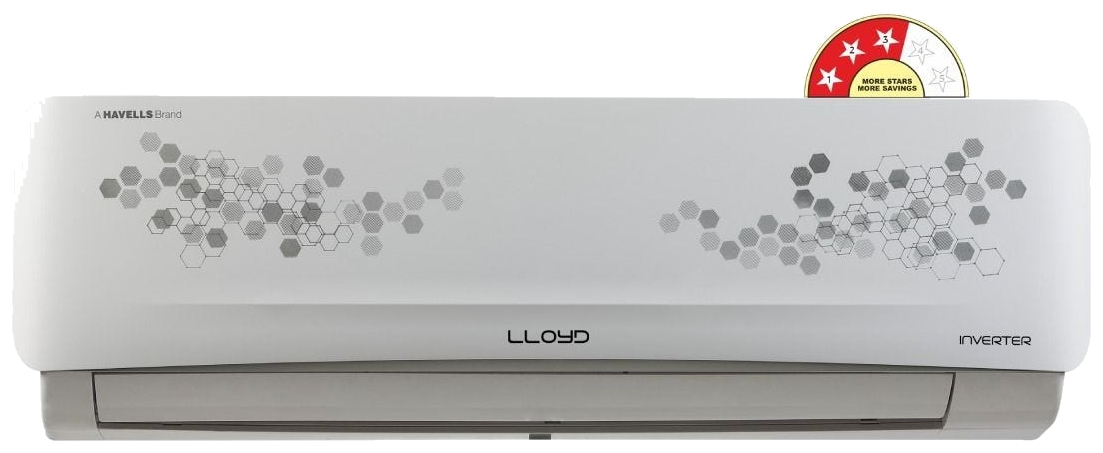
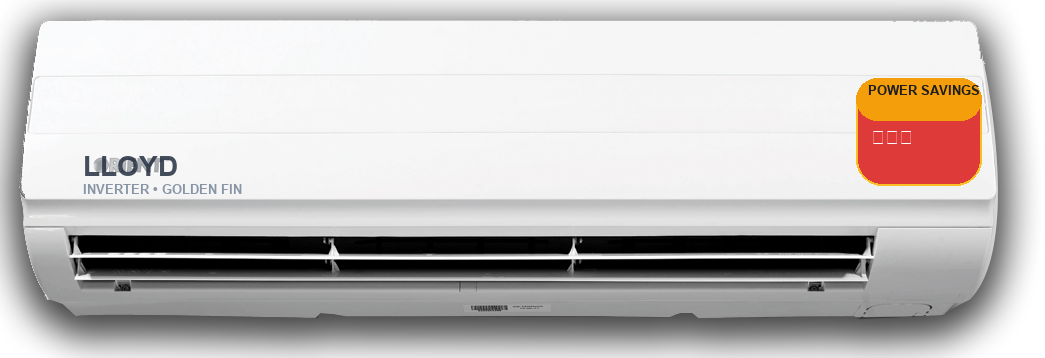
feat(visualizer): use authentic studio AC online photos, fix right-drag shrink, add direct on-canvas and sidebar model size options

diff --git a/frontend/src/components/RoomVisualizerModal.jsx b/frontend/src/components/RoomVisualizerModal.jsx
@@ -599,11 +599,33 @@ export default function RoomVisualizerModal({ isOpen, onClose, initialProduct = 
                 <span className="font-bold text-white">₹{currentProduct.price.toLocaleString()}</span>
               </div>
 
-              {/* Quick Canvas Helpers */}
-              <div className="pointer-events-auto flex items-center space-x-1.5 bg-black/75 backdrop-blur-md p-1 rounded-2xl border border-white/20 shadow-lg">
+              {/* Quick Canvas Helpers & On-Canvas Size Controls */}
+              <div className="pointer-events-auto flex items-center space-x-1.5 bg-black/80 backdrop-blur-md p-1 rounded-2xl border border-white/20 shadow-lg">
+                {/* On-Canvas Size Adjuster */}
+                <div className="flex items-center space-x-1 px-1.5 py-0.5 bg-white/10 rounded-xl">
+                  <span className="text-[10px] font-bold text-[#C8A96B] hidden sm:inline">Size:</span>
+                  <button
+                    onClick={() => setScale((s) => Math.max(0.6, +(s - 0.1).toFixed(1)))}
+                    className="w-5 h-5 rounded bg-black/40 hover:bg-[#C8A96B] hover:text-black text-white flex items-center justify-center font-bold text-xs transition cursor-pointer"
+                    title="Make AC Smaller (-10%)"
+                  >
+                    −
+                  </button>
+                  <span className="font-mono font-bold text-[11px] text-white px-1 min-w-[34px] text-center">
+                    {Math.round(scale * 100)}%
+                  </span>
+                  <button
+                    onClick={() => setScale((s) => Math.min(1.6, +(s + 0.1).toFixed(1)))}
+                    className="w-5 h-5 rounded bg-black/40 hover:bg-[#C8A96B] hover:text-black text-white flex items-center justify-center font-bold text-xs transition cursor-pointer"
+                    title="Make AC Larger (+10%)"
+                  >
+                    +
+                  </button>
+                </div>
+
                 <button
                   onClick={() => setAirflowEnabled(!airflowEnabled)}
-                  className={`px-2.5 py-1 rounded-xl text-xs font-bold flex items-center space-x-1 transition ${
+                  className={`px-2.5 py-1 rounded-xl text-xs font-bold flex items-center space-x-1 transition cursor-pointer ${
                     airflowEnabled 
                       ? 'bg-[#C8A96B] text-[#111111]' 
                       : 'text-white/70 hover:text-white hover:bg-white/10'
@@ -616,7 +638,7 @@ export default function RoomVisualizerModal({ isOpen, onClose, initialProduct = 
 
                 <button
                   onClick={() => setShowClearanceGuides(!showClearanceGuides)}
-                  className={`px-2.5 py-1 rounded-xl text-xs font-bold flex items-center space-x-1 transition ${
+                  className={`px-2.5 py-1 rounded-xl text-xs font-bold flex items-center space-x-1 transition cursor-pointer ${
                     showClearanceGuides 
                       ? 'bg-white/25 text-white' 
                       : 'text-white/70 hover:text-white hover:bg-white/10'
@@ -629,7 +651,7 @@ export default function RoomVisualizerModal({ isOpen, onClose, initialProduct = 
 
                 <button
                   onClick={handleResetPosition}
-                  className="p-1.5 rounded-xl text-white/70 hover:text-white hover:bg-white/10 transition"
+                  className="p-1.5 rounded-xl text-white/70 hover:text-white hover:bg-white/10 transition cursor-pointer"
                   title="Reset Position to Center"
                 >
                   <RotateCcw className="w-3.5 h-3.5" />
@@ -754,11 +776,11 @@ export default function RoomVisualizerModal({ isOpen, onClose, initialProduct = 
                     </div>
                   )}
 
-                  {/* Draggable AC Indoor Unit - Authentic Store Product Photo */}
+                  {/* Draggable AC Indoor Unit - Authentic Store Product Photo (Zero Shrink on drag) */}
                   <div
                     onMouseDown={handlePointerDown}
                     onTouchStart={handlePointerDown}
-                    className="absolute z-20 cursor-grab active:cursor-grabbing transition-transform group"
+                    className="absolute z-20 cursor-grab active:cursor-grabbing transition-transform group select-none touch-none w-max max-w-none"
                     style={{
                       left: `${position.x}%`,
                       top: `${position.y}%`,
@@ -766,14 +788,14 @@ export default function RoomVisualizerModal({ isOpen, onClose, initialProduct = 
                       touchAction: 'none'
                     }}
                   >
-                    {/* Realistic Wall Mounted AC Unit (No white background container) */}
-                    <div className="relative select-none filter drop-shadow-[0_20px_30px_rgba(0,0,0,0.65)]">
+                    {/* Realistic Wall Mounted AC Unit (No white background container, fixed size) */}
+                    <div className="relative select-none filter drop-shadow-[0_20px_35px_rgba(0,0,0,0.65)] w-max max-w-none">
                       
-                      {/* Transparent Cutout AC Image (Only the AC body, zero white margins) */}
+                      {/* Studio-Grade Transparent Cutout AC Image */}
                       <img 
                         src={getProductTransparentImage(currentProduct)} 
                         alt={currentProduct.title}
-                        className="w-[280px] sm:w-[390px] md:w-[460px] h-auto object-contain select-none pointer-events-none block"
+                        className="w-[300px] sm:w-[400px] md:w-[480px] max-w-none h-auto object-contain select-none pointer-events-none block"
                         onError={(e) => { 
                           e.target.src = currentProduct.image || '/images/products/daikin_split.png'; 
                         }}
@@ -786,17 +808,42 @@ export default function RoomVisualizerModal({ isOpen, onClose, initialProduct = 
                       </div>
 
                       {/* Concealed Realistic Digital Temperature LED Glow on the unit */}
-                      <div className="absolute bottom-2.5 right-4 sm:right-6 px-2 py-0.5 rounded-md bg-[#0F172A]/85 backdrop-blur-xs border border-[#334155]/60 shadow-inner flex items-center space-x-1 pointer-events-none">
-                        <span className="w-1.5 h-1.5 rounded-full bg-emerald-400 animate-pulse" />
-                        <span className="font-mono font-bold text-xs sm:text-sm text-emerald-400 tracking-wider">
-                          {temperature}°C
-                        </span>
-                      </div>
+                      {!currentProduct.is_window && (
+                        <div className="absolute bottom-3 right-5 sm:right-7 px-2 py-0.5 rounded-md bg-[#0F172A]/85 backdrop-blur-xs border border-[#334155]/60 shadow-inner flex items-center space-x-1 pointer-events-none">
+                          <span className="w-1.5 h-1.5 rounded-full bg-emerald-400 animate-pulse" />
+                          <span className="font-mono font-bold text-xs sm:text-sm text-emerald-400 tracking-wider">
+                            {temperature}°C
+                          </span>
+                        </div>
+                      )}
 
-                      {/* Drag Move Handle Pill on Hover */}
-                      <div className="absolute -top-8 left-1/2 -translate-x-1/2 bg-black/85 backdrop-blur-md text-[#C8A96B] px-3 py-1 rounded-full text-[10px] font-bold flex items-center space-x-1 opacity-0 group-hover:opacity-100 transition shadow-lg pointer-events-none whitespace-nowrap">
-                        <Move className="w-3 h-3" />
-                        <span>Drag anywhere on wall</span>
+                      {/* Drag Move Handle Pill on Hover with On-Unit Size Buttons */}
+                      <div className="absolute -top-9 left-1/2 -translate-x-1/2 bg-black/90 backdrop-blur-md text-white px-3 py-1 rounded-full text-[10px] font-bold flex items-center space-x-2 opacity-0 group-hover:opacity-100 transition shadow-xl pointer-events-auto whitespace-nowrap border border-white/15">
+                        <div className="flex items-center space-x-1 text-[#C8A96B]">
+                          <Move className="w-3 h-3" />
+                          <span>Drag to reposition</span>
+                        </div>
+                        <span className="text-white/40">|</span>
+                        <div className="flex items-center space-x-1">
+                          <span className="text-white/80">Size:</span>
+                          <button
+                            onClick={(e) => { e.stopPropagation(); setScale((s) => Math.max(0.6, +(s - 0.1).toFixed(1))); }}
+                            className="w-4 h-4 rounded bg-white/20 hover:bg-[#C8A96B] hover:text-black flex items-center justify-center font-bold text-xs transition cursor-pointer"
+                            title="Smaller"
+                          >
+                            −
+                          </button>
+                          <span className="font-mono text-[#C8A96B] min-w-[28px] text-center">
+                            {Math.round(scale * 100)}%
+                          </span>
+                          <button
+                            onClick={(e) => { e.stopPropagation(); setScale((s) => Math.min(1.6, +(s + 0.1).toFixed(1))); }}
+                            className="w-4 h-4 rounded bg-white/20 hover:bg-[#C8A96B] hover:text-black flex items-center justify-center font-bold text-xs transition cursor-pointer"
+                            title="Larger"
+                          >
+                            +
+                          </button>
+                        </div>
                       </div>
                     </div>
 
@@ -1032,38 +1079,77 @@ export default function RoomVisualizerModal({ isOpen, onClose, initialProduct = 
                 </div>
               </div>
 
-              {/* Wall Size & Dimension Adjustments */}
-              <div className="space-y-3 p-4 bg-white dark:bg-[#252525] rounded-2xl border border-[#E2E0DB] dark:border-[#2E2E2E]">
+              {/* Wall Size & Dimension Adjustments (Model Size Option) */}
+              <div className="space-y-3 p-4 bg-white dark:bg-[#252525] rounded-2xl border border-[#E2E0DB] dark:border-[#2E2E2E] shadow-xs">
                 <div className="flex items-center justify-between">
                   <label className="text-xs font-bold text-[#111111] dark:text-white flex items-center space-x-1.5">
                     <SlidersHorizontal className="w-3.5 h-3.5 text-[#C8A96B]" />
-                    <span>AC Scale / Wall Distance</span>
+                    <span>AC Model Size (Wall Scale)</span>
                   </label>
-                  <span className="text-xs font-mono font-bold text-[#C8A96B]">
+                  <span className="text-xs font-mono font-bold text-[#C8A96B] bg-[#C8A96B]/15 px-2 py-0.5 rounded-md">
                     {Math.round(scale * 100)}%
                   </span>
                 </div>
 
-                <input
-                  type="range"
-                  min="0.6"
-                  max="1.5"
-                  step="0.05"
-                  value={scale}
-                  onChange={(e) => setScale(parseFloat(e.target.value))}
-                  className="w-full accent-[#C8A96B] cursor-pointer"
-                />
+                {/* Quick Model Size Presets */}
+                <div className="grid grid-cols-4 gap-1.5 pt-1">
+                  {[
+                    { label: 'Compact', val: 0.75 },
+                    { label: 'Normal', val: 1.0 },
+                    { label: 'Large', val: 1.25 },
+                    { label: 'XL View', val: 1.5 }
+                  ].map((p) => (
+                    <button
+                      key={p.label}
+                      onClick={() => setScale(p.val)}
+                      className={`py-1.5 rounded-xl text-[11px] font-bold transition text-center cursor-pointer ${
+                        Math.abs(scale - p.val) < 0.05
+                          ? 'bg-[#111111] dark:bg-[#C8A96B] text-white dark:text-[#111111] shadow-sm'
+                          : 'bg-[#F7F6F2] dark:bg-[#1E1E1E] text-[#555555] dark:text-[#858585] hover:bg-[#E2E0DB]'
+                      }`}
+                    >
+                      {p.label}
+                    </button>
+                  ))}
+                </div>
+
+                {/* Stepper buttons and slider */}
+                <div className="flex items-center space-x-2 pt-1">
+                  <button
+                    onClick={() => setScale((s) => Math.max(0.6, +(s - 0.05).toFixed(2)))}
+                    className="w-7 h-7 rounded-lg bg-[#F7F6F2] dark:bg-[#1E1E1E] hover:bg-[#E2E0DB] flex items-center justify-center font-bold text-sm text-[#111111] dark:text-white transition cursor-pointer"
+                    title="Shrink (-5%)"
+                  >
+                    −
+                  </button>
+                  <input
+                    type="range"
+                    min="0.6"
+                    max="1.6"
+                    step="0.05"
+                    value={scale}
+                    onChange={(e) => setScale(parseFloat(e.target.value))}
+                    className="flex-1 accent-[#C8A96B] cursor-pointer"
+                  />
+                  <button
+                    onClick={() => setScale((s) => Math.min(1.6, +(s + 0.05).toFixed(2)))}
+                    className="w-7 h-7 rounded-lg bg-[#F7F6F2] dark:bg-[#1E1E1E] hover:bg-[#E2E0DB] flex items-center justify-center font-bold text-sm text-[#111111] dark:text-white transition cursor-pointer"
+                    title="Enlarge (+5%)"
+                  >
+                    +
+                  </button>
+                </div>
 
                 <div className="flex items-center justify-between text-[11px] text-[#555555] dark:text-[#858585]">
                   <span>Far Wall (Smaller)</span>
-                  <span>Close Wall (Larger)</span>
+                  <span>Close-Up Wall (Larger)</span>
                 </div>
 
                 {/* Real-world dimension reference */}
                 <div className="pt-2 border-t border-[#E2E0DB] dark:border-[#2E2E2E] flex items-center justify-between text-[11px]">
                   <span className="text-[#555555]">Real Dimensions:</span>
                   <span className="font-bold text-[#111111] dark:text-white">
-                    88 cm (W) × 29 cm (H) × 21 cm (D)
+                    {currentProduct.is_window ? '66 cm (W) × 43 cm (H) × 70 cm (D)' : '88 cm (W) × 29 cm (H) × 21 cm (D)'}
                   </span>
                 </div>
               </div>
